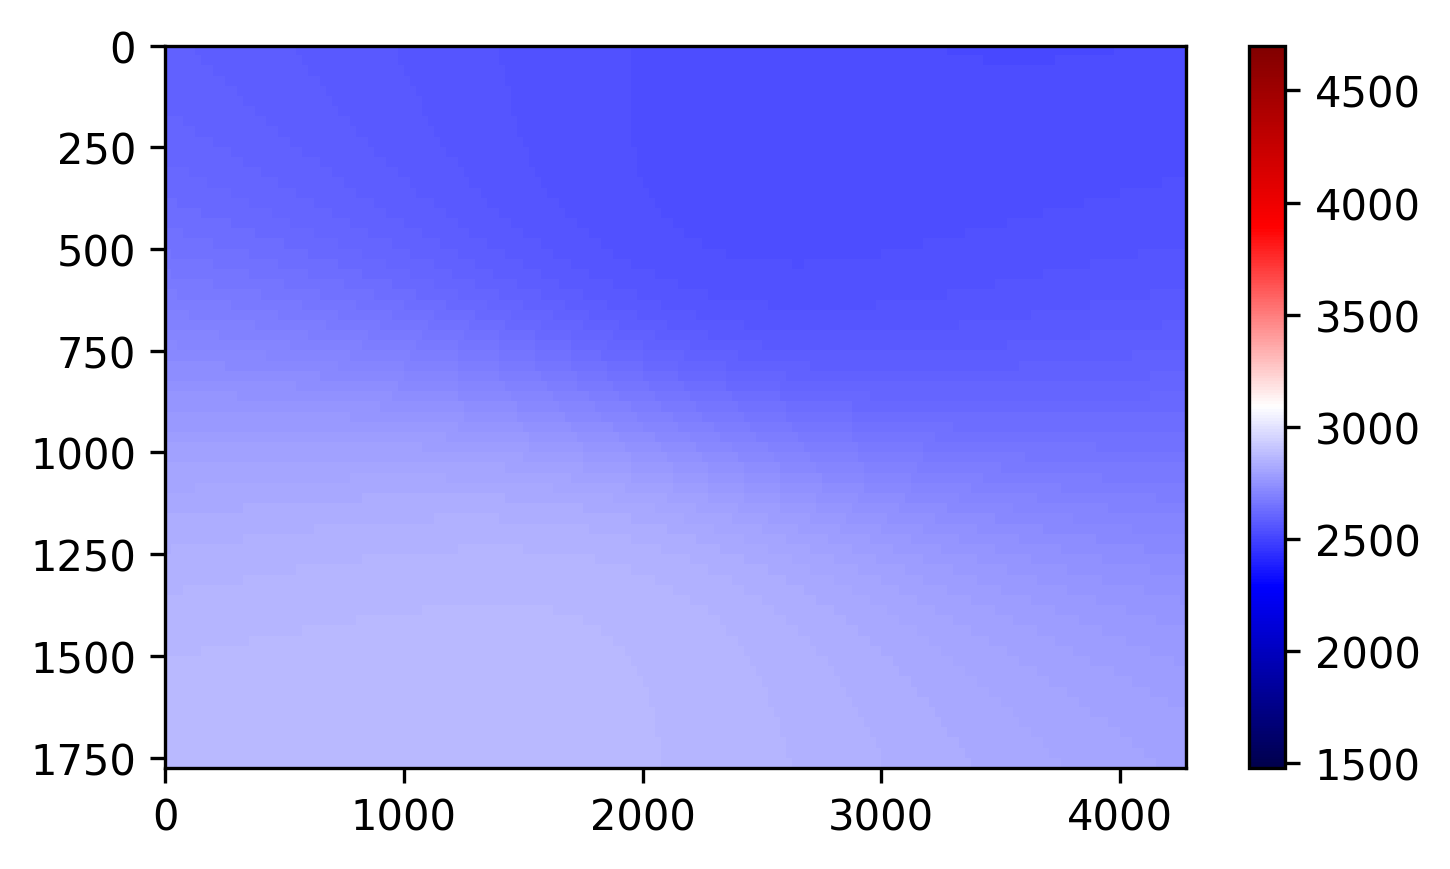
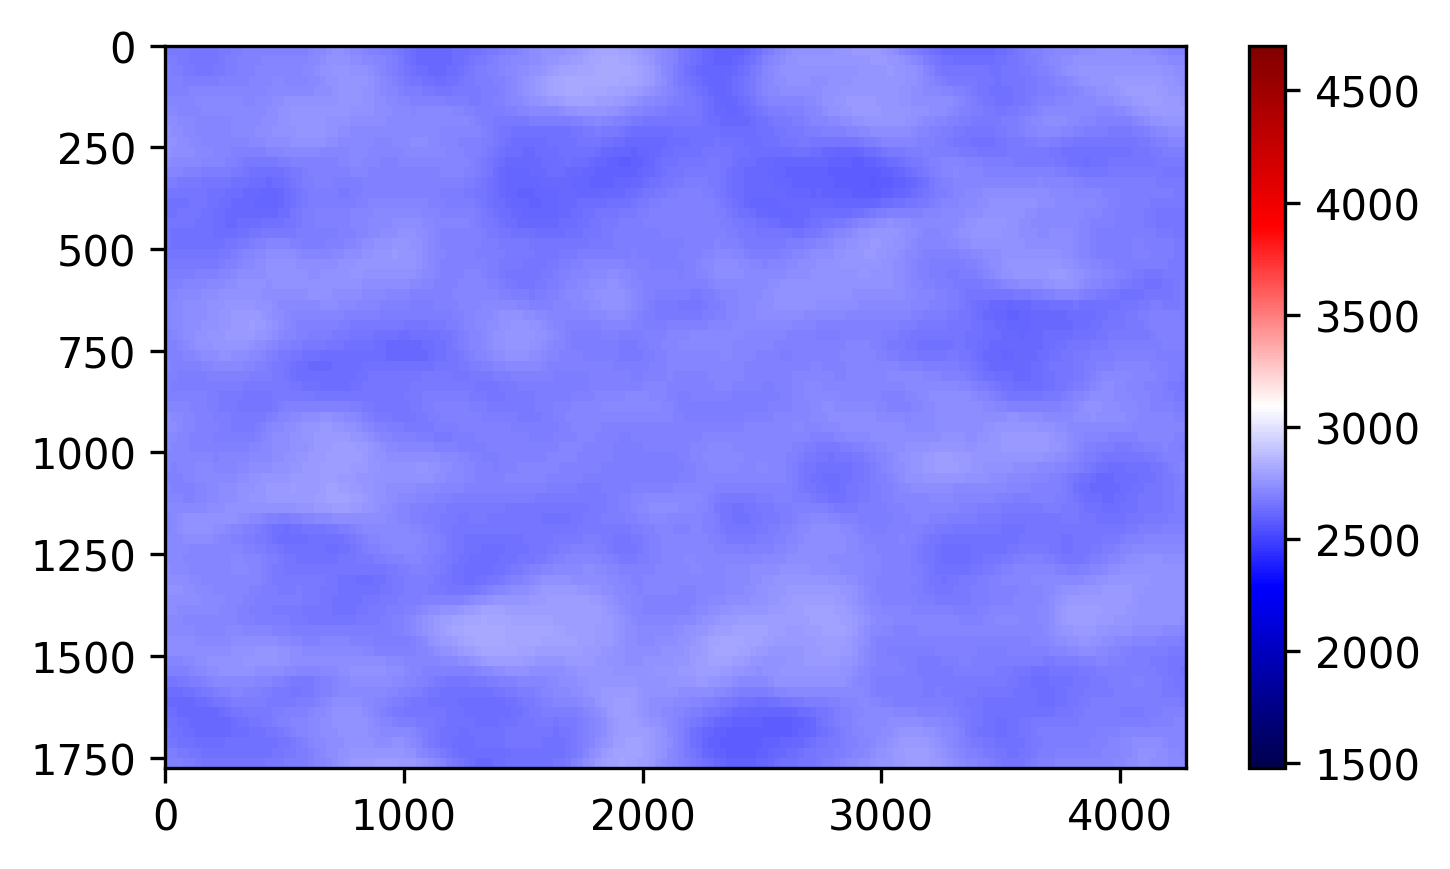
Fix siren example implementaion error.

diff --git a/examples/nn_embedded_fwi/model_representation/implicit_acoustic_marmousi_jax/siren.py b/examples/nn_embedded_fwi/model_representation/implicit_acoustic_marmousi_jax/siren.py
@@ -77,8 +77,9 @@ class SirenLayer(nn.Module):
             (1 / input_dim) if self.is_first else jnp.sqrt(self.c / input_dim) / self.w0
         )
         if not self.outermost_linear:
-            weight_min = (-1 / self.features) if self.is_first else (-jnp.sqrt(6 / self.features) / self.w0)
-            weight_max = (1 / self.features) if self.is_first else (jnp.sqrt(6 / self.features) / self.w0)
+            # Change the 2 to desired number of demension of the input coordinates/features!!
+            weight_min = (-1 / 2) if self.is_first else (-jnp.sqrt(6 / self.features) / self.w0)
+            weight_max = (1 / 2) if self.is_first else (jnp.sqrt(6 / self.features) / self.w0)
         else:
             weight_min = (-jnp.sqrt(6 / self.hidden_dim) / self.w0)
             weight_max = (jnp.sqrt(6 / self.hidden_dim) / self.w0)            

diff --git a/examples/nn_embedded_fwi/model_representation/implicit_acoustic_marmousi_jax/configure4x2.py b/examples/nn_embedded_fwi/model_representation/implicit_acoustic_marmousi_jax/configure4x2.py
@@ -29,7 +29,7 @@ EPOCHS = 2001
 show_every = 200
 srcx_step = 2
 
-num_layers = 6
+num_layers = 4
 hidden_dim = 128
 save_path = f'ifwi4x2_5hz/{time.strftime("%Y-%m-%d-%H-%M-%S")}'
 # save_path = f'figures'
